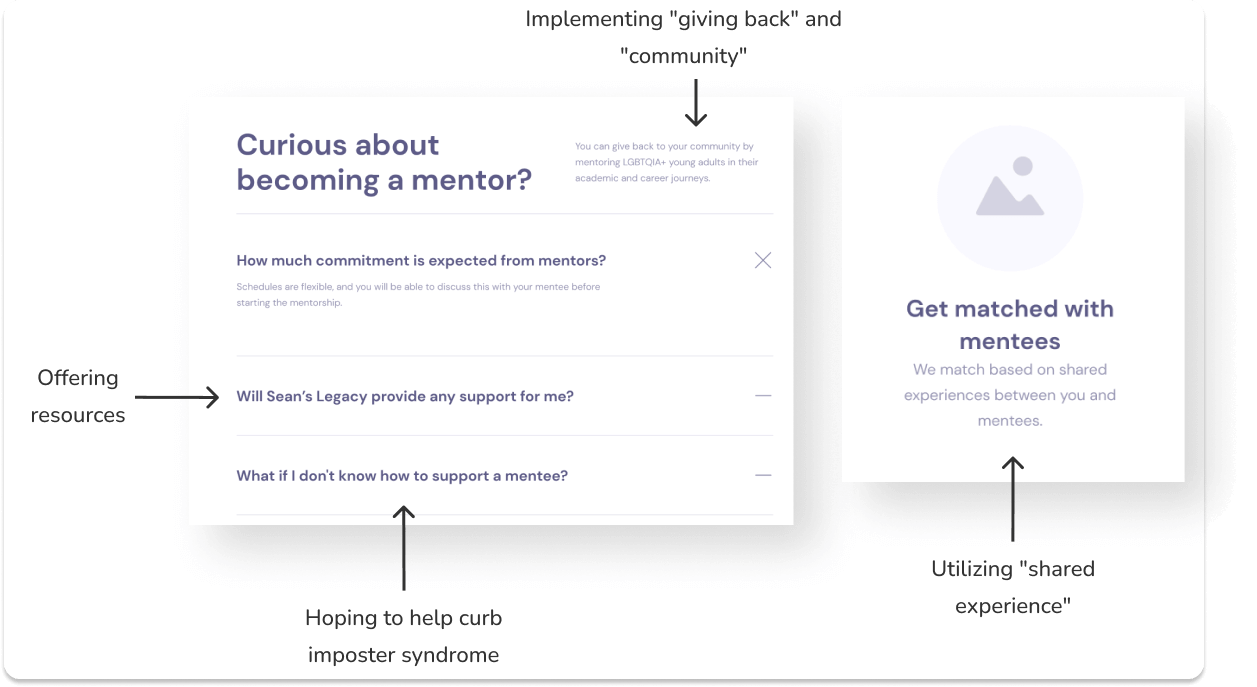
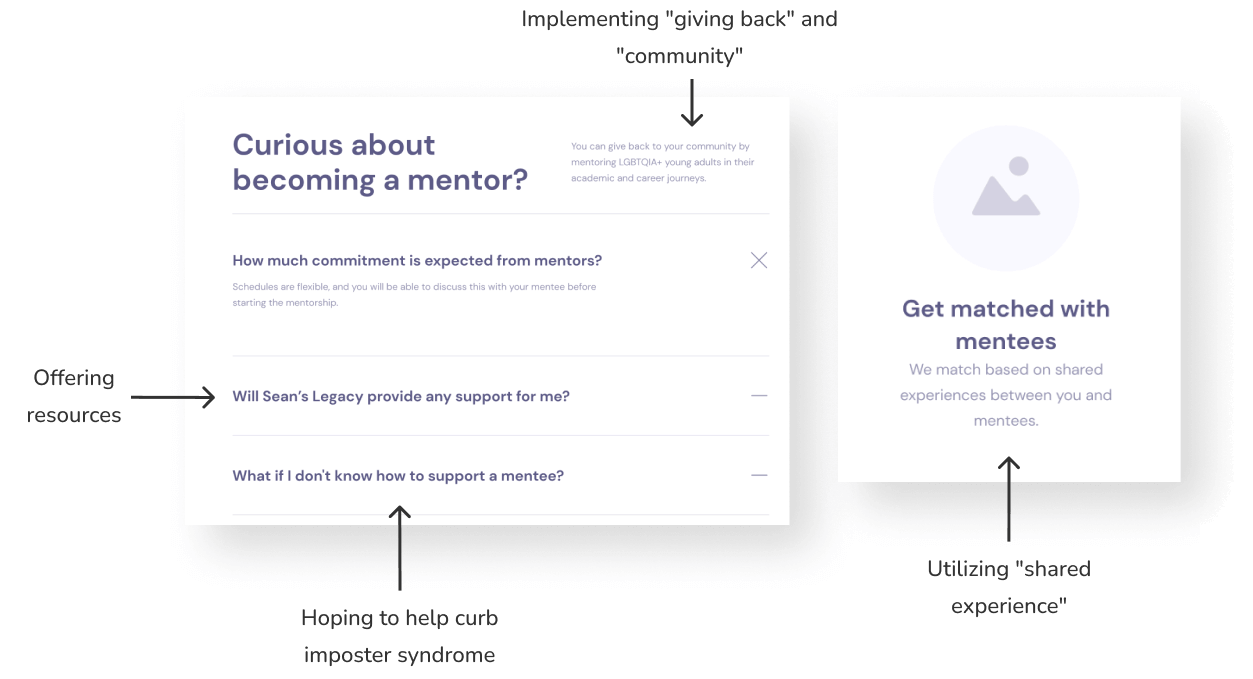
fixing typos, updating imgs

diff --git a/src/components/projects/caseStudies/case-study-sl-body.js b/src/components/projects/caseStudies/case-study-sl-body.js
@@ -170,7 +170,7 @@ const CaseStudy2Body = () => {
                 </Col>
                 <Col>
                   <Title variant="card">After</Title>
-                  <Text className="mb-4 mt-4 w-100">We improved readability by editting copy for concision. Headers were created to make scanning easier.</Text>
+                  <Text className="mb-4 mt-4 w-100">We improved readability by editing copy for concision. Headers were created to make scanning easier.</Text>
                   <img src={imgPhoto8} alt="" className="img-fluid w-100" />
                 </Col>
                 <div>
@@ -235,7 +235,7 @@ const CaseStudy2Body = () => {
                   <br />
                   Potential mentors indicated a desire for community support and resources in general, and we included these needs using <b>uplifting</b>, <b>compassionate language</b>.
                   </Text>
-                    <img src={imgPhoto16} alt="" className="img-fluid w-100 mt-4" />
+                    <img src={imgPhoto16} alt="" className="img-fluid w-75 mt-4" />
             </Row>
             <Row className='mt-5'>
                   <Title variant="cardBig">Promoting safety through transparency and consistency</Title>
@@ -256,15 +256,15 @@ const CaseStudy2Body = () => {
                   <Title variant="card">After</Title>
                   <Text>Following our voice and tone guidelines, copy was written to be <b>uplifting</b>, <b>ethical</b>, and <b>respectful</b>.</Text>
                   <Text className="mb-4 mt-4 w-100"></Text>
-                  <img src={imgPhoto18} alt="" className="img-fluid w-100" />
+                  <img src={imgPhoto18} alt="" className="img-fluid w-75" />
                 </div>
             </Row>
             <Row className="mb-4 mt-5 w-100">
                 <Title variant="cardBig">What information is required for a background check?</Title>
                 <Text className="mb-4 mt-4 w-100">Research showed mentors expect and are used to background checks. In conjunction with the 2nd Design team, <b>we worked on making the background check process as clear and easy as possible</b>.
-                <br />Unsure of what exactly Sean's Legacy would be checking for, I reached out to our client for requirements: Social Security number, address history, and a form of payment were all needed. We wrote concise body copy to help mentor's understand why we are asking for this information.
+                <br />Unsure of what exactly Sean's Legacy would be checking for, I reached out to our client for requirements: Social Security number, address history, and a form of payment were all needed. We wrote concise body copy to help mentors understand why we are asking for this information.
                 </Text>
-                <img src={imgPhoto19} alt="" className="img-fluid w-100" />
+                <img src={imgPhoto19} alt="" className="img-fluid w-75" />
             </Row>
           </Section>
           <Section hero={true} bg={"dark"}>

diff --git a/src/sections/seans-legacy/Hero.js b/src/sections/seans-legacy/Hero.js
@@ -5,7 +5,7 @@ import { Container } from 'react-bootstrap'
 import { Title, Section, Box } from '../../components/Core'
 
 import bgHeroPattern from '../../assets/image/webp/hero-pattern.webp'
-import imgL from '../../assets/image/png/aspect_hero@2x.png'
+import imgL from '../../assets/image/png/seanhero.png'
 
 const SectionStyled = styled(Section)`
   &::before {
@@ -35,6 +35,14 @@ const Hero = () => {
       {/* <!-- Hero Area --> */}
       <SectionStyled hero className="position-relative">
         <Container>
+            <Box
+              className="text-center text-lg-right position-relative"
+              
+            >
+              <div className="img-main text-center">
+                
+              </div>
+            </Box>
           <Box mt="92px" className="d-flex flex-column text-center">
             <Title
               variant="card"
